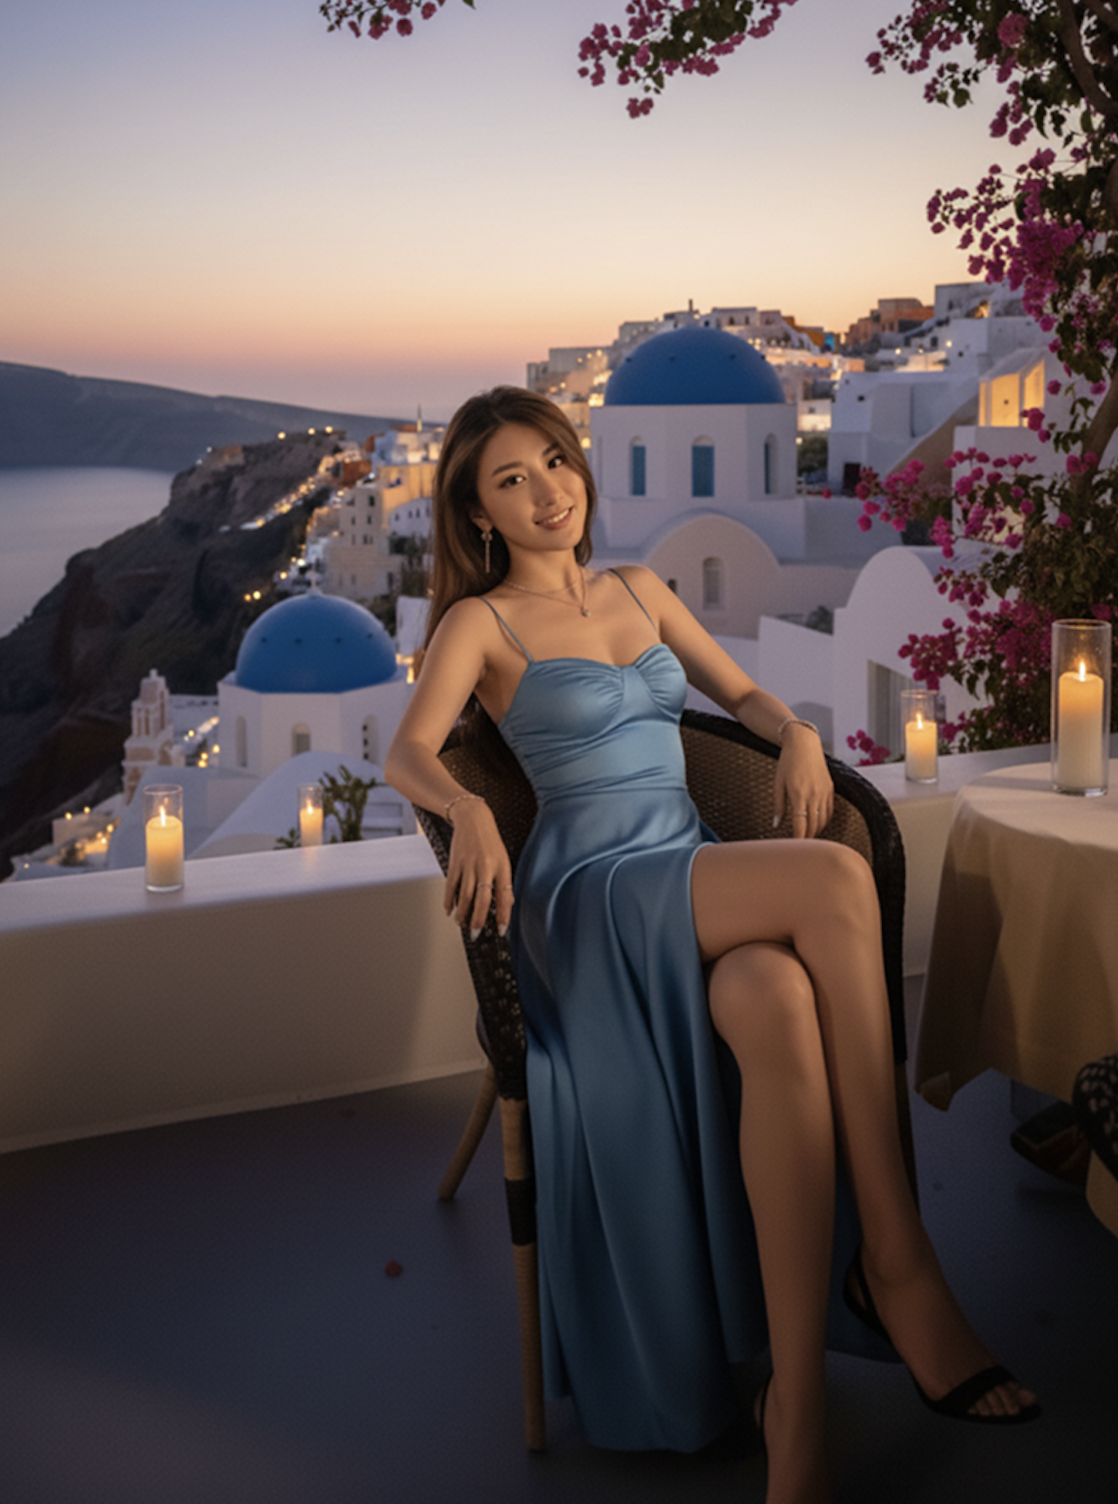
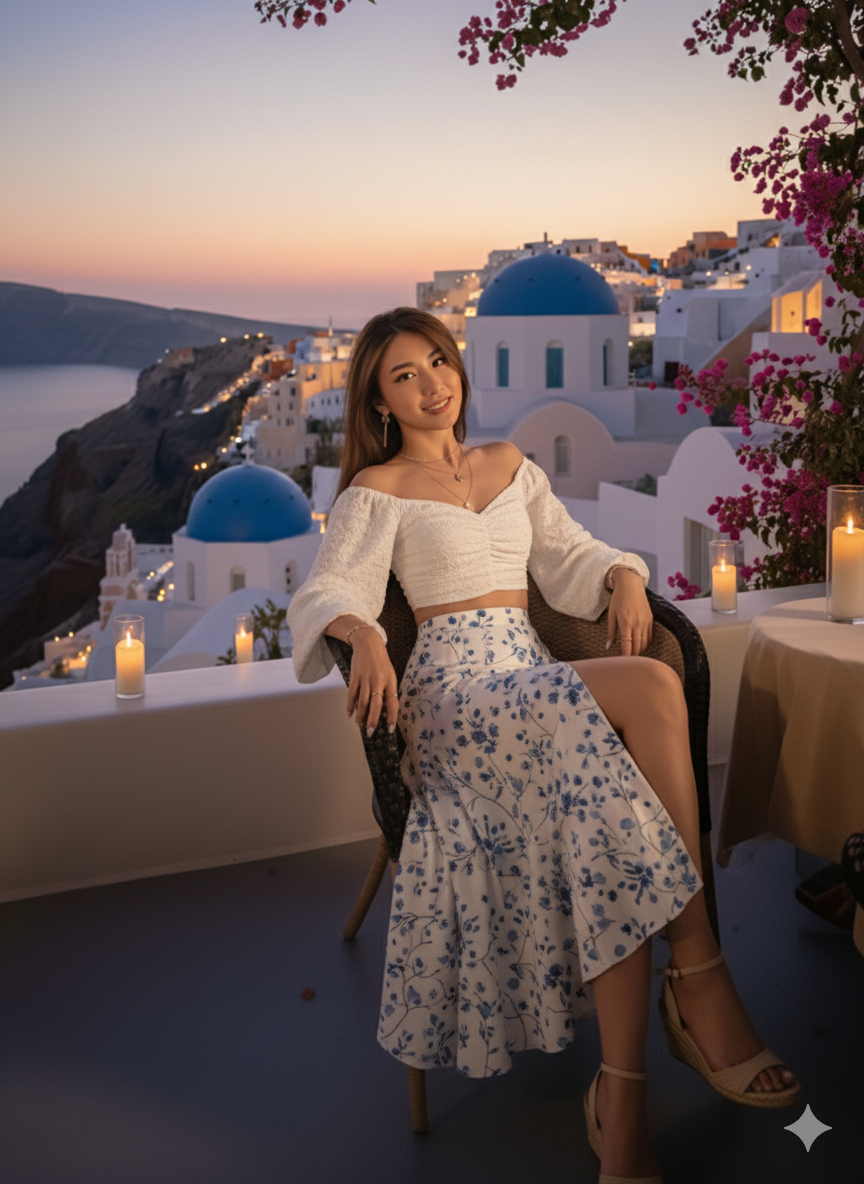
add

diff --git a/src/Instagram5.tsx b/src/Instagram5.tsx
@@ -15,25 +15,26 @@ interface InstagramInteractionDemoProps {
 const ANIMATION_TIMINGS = {
   AUTO_START_DELAY: 1000,  // Comfortable start
   INTRO_DISPLAY_DURATION: 5000,  // Extended intro for better impact
+  POST_PREVIEW_DURATION: 2500,  // Show raw post briefly before animation
   INTRO_TRANSITION_DELAY: 1500,  // Pause before demo
-  TAP_ANIMATION_DURATION: 300,  // More visible tap feedback
-  SHEET_OPEN_DELAY: 120,  // More natural sheet response
-  TYPING_START_DELAY: 500,  // Pause before typing
-  TYPING_CHAR_DELAY: 200,  // More readable typing speed
-  FADE_OUT_DELAY: 400,  // More visible fade
-  SUBMITTED_DELAY: 600,  // Pause to see submitted state
-  NOTIFICATION_DELAY: 600,  // More natural notification timing
-  NOTIFICATION_DURATION: 1000,  // Longer notification display
-  NOTIFICATION_CLICK_DELAY: 500,  // More natural click timing
+  TAP_ANIMATION_DURATION: 400,  // More visible tap feedback
+  SHEET_OPEN_DELAY: 200,  // More natural sheet response
+  TYPING_START_DELAY: 800,  // Longer pause before typing
+  TYPING_CHAR_DELAY: 300,  // Slower, more readable typing speed
+  FADE_OUT_DELAY: 600,  // More visible fade
+  SUBMITTED_DELAY: 800,  // Longer pause to see submitted state
+  NOTIFICATION_DELAY: 800,  // More natural notification timing
+  NOTIFICATION_DURATION: 1500,  // Longer notification display
+  NOTIFICATION_CLICK_DELAY: 700,  // More natural click timing
   // Notification should appear after the comment visibly renders
-  COMMENT_APPEAR_DELAY: 200,  // More visible comment appear
-  COMMENT_APPEAR_ANIM_DURATION: 400,  // Smoother animation
-  NOTIFICATION_AFTER_COMMENT_DELAY: 800,  // More natural delay
-  DM_PULSE_DELAY: 500,  // More visible DM pulse
-  DM_PULSE_DURATION: 500,  // Longer pulse duration
-  DM_CLICK_FLASH_DELAY: 600,  // More visible click flash
-  DM_CLICK_FLASH_DURATION: 300,  // Longer flash
-  WEBSITE_OPEN_DELAY: 500,  // More natural website open
+  COMMENT_APPEAR_DELAY: 300,  // More visible comment appear
+  COMMENT_APPEAR_ANIM_DURATION: 600,  // Smoother animation
+  NOTIFICATION_AFTER_COMMENT_DELAY: 1000,  // Longer delay
+  DM_PULSE_DELAY: 800,  // More visible DM pulse
+  DM_PULSE_DURATION: 800,  // Longer pulse duration
+  DM_CLICK_FLASH_DELAY: 800,  // More visible click flash
+  DM_CLICK_FLASH_DURATION: 400,  // Longer flash
+  WEBSITE_OPEN_DELAY: 800,  // More natural website open
   WEBSITE_DISPLAY_DURATION: 4000,  // Longer website display
   SCALEDM_UPSELL_DISPLAY_DURATION: 5000,  // Extended upsell for conversion
   RESTART_DELAY: 1000,  // More natural restart
@@ -104,7 +105,7 @@ const VIDEO_SCRIPT = {
     question: "Are you an IG creator or business?",
     problem: "Can't share links on your IG posts? Losing traffic to your website? 💸"
   },
-  solution: "Automatically DM your link to every commenter 🚀",
+  solution: "Auto‑DM your links to every commenter with ScaleDM 🚀",
   cta: "Sign up with ScaleDM to get started for free"
 };
 
@@ -128,7 +129,7 @@ const InstagramBookmarkIcon = () => (
   </svg>
 );
 
-type DemoPhase = "idle" | "intro" | "openSheet" | "typing" | "fadeOut" | "submitted" | "dm";
+type DemoPhase = "idle" | "intro" | "preview" | "openSheet" | "typing" | "fadeOut" | "submitted" | "dm";
 
 interface DemoState {
   typed: string;
@@ -209,17 +210,23 @@ const useDemoAnimation = () => {
     // Start with intro phase
     updateState({ phase: "intro" });
     
-    // After intro, start the demo
+    // After intro, briefly show raw post (no overlay) before starting the demo
+    addTimeout(() => {
+      updateState({ phase: "preview" });
+    }, ANIMATION_TIMINGS.INTRO_DISPLAY_DURATION);
+
+    const baseStart = ANIMATION_TIMINGS.INTRO_DISPLAY_DURATION + ANIMATION_TIMINGS.POST_PREVIEW_DURATION;
+
     addTimeout(() => {
       updateState({ typed: "", commentIconTapAnim: true });
-    }, ANIMATION_TIMINGS.INTRO_DISPLAY_DURATION);
+    }, baseStart);
     addTimeout(() => {
       updateState({ commentIconTapAnim: false });
       // Small delay before sheet opens for more natural feel
       addTimeout(() => {
         updateState({ phase: "openSheet" });
       }, 50);
-    }, ANIMATION_TIMINGS.INTRO_DISPLAY_DURATION + ANIMATION_TIMINGS.TAP_ANIMATION_DURATION);
+    }, baseStart + ANIMATION_TIMINGS.TAP_ANIMATION_DURATION);
     addTimeout(() => {
       updateState({ phase: "typing" });
       let charIndex = 0;
@@ -245,7 +252,7 @@ const useDemoAnimation = () => {
         }
       };
       typeNextChar();
-    }, ANIMATION_TIMINGS.INTRO_DISPLAY_DURATION + ANIMATION_TIMINGS.TYPING_START_DELAY);
+    }, baseStart + ANIMATION_TIMINGS.TYPING_START_DELAY);
   }, [addTimeout, clearAllAnimations, updateState, isPaused]);
 
   const handleNotification = useCallback(() => {
@@ -369,9 +376,10 @@ const IntroOverlay: React.FC<{
               sx={{ 
                 fontWeight: 800, 
                 mb: 3,
-                fontSize: { xs: "1.5rem", sm: "2rem" },
+                fontSize: { xs: "1.8rem", sm: "2.4rem" },
                 lineHeight: 1.2,
-                textShadow: "0 2px 4px rgba(0,0,0,0.3)"
+                letterSpacing: 0.2,
+                textShadow: "0 3px 10px rgba(0,0,0,0.45)"
               }}
             >
               {VIDEO_SCRIPT.intro.question}
@@ -388,10 +396,10 @@ const IntroOverlay: React.FC<{
               sx={{ 
                 fontWeight: 600, 
                 mb: 4,
-                fontSize: { xs: "1rem", sm: "1.25rem" },
+                fontSize: { xs: "1.2rem", sm: "1.4rem" },
                 lineHeight: 1.4,
-                color: "#ffeb3b",
-                textShadow: "0 1px 2px rgba(0,0,0,0.3)"
+                color: "rgba(255,255,255,0.9)",
+                textShadow: "0 3px 10px rgba(0,0,0,0.35)"
               }}
             >
               {VIDEO_SCRIPT.intro.problem}
@@ -407,19 +415,21 @@ const IntroOverlay: React.FC<{
               display: "inline-flex", 
               alignItems: "center", 
               gap: 1,
-              px: 3, 
-              py: 1.5, 
-              bgcolor: "rgba(255,255,255,0.1)",
+              px: 3.25, 
+              py: 1.6, 
+              bgcolor: "rgba(255,255,255,0.12)",
               borderRadius: 2,
-              border: "2px solid rgba(255,255,255,0.2)",
+              border: "1px solid rgba(255,255,255,0.28)",
+              boxShadow: "0 8px 20px rgba(0,0,0,0.35)",
               backdropFilter: "blur(10px)"
             }}>
               <Typography 
                 variant="h6" 
                 sx={{ 
-                  fontWeight: 700,
-                  fontSize: { xs: "1rem", sm: "1.1rem" },
-                  color: "#4caf50"
+                  fontWeight: 800,
+                  fontSize: { xs: "1.15rem", sm: "1.3rem" },
+                  color: "#ffffff",
+                  textShadow: "0 3px 10px rgba(0,0,0,0.35)"
                 }}
               >
                 {VIDEO_SCRIPT.solution}
@@ -703,14 +713,14 @@ const ScaleDMUpsellOverlay: React.FC<{
               variant="h6" 
               sx={{ 
                 fontWeight: 600, 
-                mb: 4,
-                fontSize: { xs: "1rem", sm: "1.25rem" },
+              mb: 4,
+              fontSize: { xs: "1.2rem", sm: "1.4rem" },
                 lineHeight: 1.4,
                 color: "#4caf50",
                 textShadow: "0 1px 2px rgba(0,0,0,0.3)"
               }}
             >
-              Set up your comment-to-DM automation with ScaleDM 100% free in under 30 seconds
+              Get started for free with ScaleDM
             </Typography>
           </motion.div>
 
@@ -1143,12 +1153,21 @@ const InstagramInteractionDemo: React.FC<InstagramInteractionDemoProps> = ({
                           <Typography variant="h6" sx={{ 
                             fontSize: 15, 
                             fontWeight: 700, 
-                            mb: 0.5, 
+                            mb: 0.25, 
                             lineHeight: 1.3,
                             color: "text.primary",
                             textAlign: "left"
                           }}>
-                            Sky-Blue Satin Evening Dress
+                            Autumn Ribbed Knit Two‑Piece Set
+                          </Typography>
+                          <Typography variant="caption" sx={{ 
+                            fontSize: 12,
+                            color: "text.secondary",
+                            display: "block",
+                            mb: 0.5,
+                            textAlign: "left"
+                          }}>
+                            $79 • ⭐ 4.8
                           </Typography>
                           <Typography variant="body2" sx={{ 
                             fontSize: 13, 
@@ -1158,7 +1177,7 @@ const InstagramInteractionDemo: React.FC<InstagramInteractionDemoProps> = ({
                             display: "block",
                             textAlign: "left"
                           }}>
-                            A sleek sky-blue satin dress with a timeless silhouette—effortlessly elegant for weddings, galas, and nights out.
+                            Cozy ribbed knit set with a flattering slim fit. Pair of matching top and skirt—effortless style from brunch to date night.
                           </Typography>
                         </Box>
                         <Box sx={{ position: "relative", display: "flex", justifyContent: "center", width: "100%", p: { xs: 1, sm: 1.5 } }}>
@@ -1253,7 +1272,15 @@ const InstagramInteractionDemo: React.FC<InstagramInteractionDemoProps> = ({
                         <Typography variant="caption" sx={{ color: "#666", fontSize: "0.6rem" }}>{"FASHION > "}<u>EVENING DRESSES</u></Typography>
                       </Box>
                       <Box sx={{ px: 2, py: 1.5, bgcolor: "white" }}>
-                        <Typography variant="h3" sx={{ fontWeight: 900, color: "#000", mb: 1.5, fontSize: "1.3rem" }}>Sky-Blue Satin Evening Dress</Typography>
+                        <Typography variant="h3" sx={{ fontWeight: 900, color: "#000", mb: 0.75, fontSize: "1.3rem" }}>Autumn Ribbed Knit Two‑Piece Set</Typography>
+                        <Box sx={{ display: "flex", alignItems: "center", gap: 1, mb: 1 }}>
+                          <Typography variant="h6" sx={{ fontWeight: 800, fontSize: "1rem", color: "#111" }}>$79</Typography>
+                          <Typography variant="caption" sx={{ color: "#666", fontSize: "0.7rem" }}>incl. taxes</Typography>
+                          <Box sx={{ ml: "auto", display: "flex", alignItems: "center", gap: 0.5 }}>
+                            <Typography variant="caption" sx={{ fontSize: "0.7rem" }}>⭐ 4.8</Typography>
+                            <Typography variant="caption" sx={{ fontSize: "0.7rem" }}>• 127 reviews</Typography>
+                          </Box>
+                        </Box>
                         <Box sx={{ display: "flex", alignItems: "center", gap: 1, mb: 1 }}>
                           <Avatar src="/animation_profile.png" alt="stylebysarah business profile" sx={{ width: 24, height: 24 }} />
                           <Typography variant="body2" sx={{ fontWeight: 700, fontSize: "0.8rem" }}>By <strong>STYLE BY SARAH</strong></Typography>
@@ -1263,28 +1290,32 @@ const InstagramInteractionDemo: React.FC<InstagramInteractionDemoProps> = ({
                           </Box>
                         </Box>
                         <Box sx={{ display: "flex", alignItems: "center", gap: 1, mb: 1.5 }}>
-                          <Box sx={{ px: 1.5, py: 0.75, bgcolor: "#000", color: "white", borderRadius: 1, fontWeight: 700, fontSize: "0.75rem" }}>SHOP NOW</Box>
                           <Box sx={{ display: "flex", gap: 0.5 }}>
-                            <Box sx={{ width: 20, height: 20, borderRadius: "50%", bgcolor: "#ddd", display: "flex", alignItems: "center", justifyContent: "center", fontSize: "0.6rem" }}>P</Box>
-                            <Box sx={{ width: 20, height: 20, borderRadius: "50%", bgcolor: "#ddd", display: "flex", alignItems: "center", justifyContent: "center", fontSize: "0.6rem" }}>♡</Box>
-                            <Box sx={{ width: 20, height: 20, borderRadius: "50%", bgcolor: "#ddd", display: "flex", alignItems: "center", justifyContent: "center", fontSize: "0.6rem" }}>🖨</Box>
+                            <Box sx={{ px: 1, py: 0.4, borderRadius: 1, bgcolor: "#111", color: "white", fontWeight: 800, fontSize: "0.7rem" }}>ADD TO BAG</Box>
+                            <Box sx={{ px: 1, py: 0.4, borderRadius: 1, border: "1px solid #ddd", color: "#111", fontWeight: 800, fontSize: "0.7rem" }}>WISHLIST ♡</Box>
+                          </Box>
+                          <Box sx={{ ml: "auto", display: "flex", gap: 0.5 }}>
+                            <Box sx={{ px: 0.75, py: 0.25, borderRadius: 2, bgcolor: "#f1f5f9", fontSize: "0.6rem", fontWeight: 700, color: "#0f172a" }}>XS</Box>
+                            <Box sx={{ px: 0.75, py: 0.25, borderRadius: 2, bgcolor: "#f1f5f9", fontSize: "0.6rem", fontWeight: 700, color: "#0f172a" }}>S</Box>
+                            <Box sx={{ px: 0.75, py: 0.25, borderRadius: 2, bgcolor: "#f1f5f9", fontSize: "0.6rem", fontWeight: 700, color: "#0f172a" }}>M</Box>
+                            <Box sx={{ px: 0.75, py: 0.25, borderRadius: 2, bgcolor: "#f1f5f9", fontSize: "0.6rem", fontWeight: 700, color: "#0f172a" }}>L</Box>
                           </Box>
                         </Box>
                         <Box sx={{ display: "flex", gap: 0.5, mb: 1 }}>
-                          <Box sx={{ px: 0.75, py: 0.25, bgcolor: "#1DA1F2", color: "white", borderRadius: 2, fontSize: "0.55rem", fontWeight: 700 }}>SATIN</Box>
-                          <Box sx={{ px: 0.75, py: 0.25, bgcolor: "#87CEEB", color: "#000", borderRadius: 2, fontSize: "0.55rem", fontWeight: 700 }}>SKY BLUE</Box>
-                          <Box sx={{ px: 0.75, py: 0.25, bgcolor: "#4B0082", color: "white", borderRadius: 2, fontSize: "0.55rem", fontWeight: 700 }}>EVENING</Box>
+                          <Box sx={{ px: 0.75, py: 0.25, bgcolor: "#0ea5e9", color: "white", borderRadius: 2, fontSize: "0.55rem", fontWeight: 700 }}>RIBBED</Box>
+                          <Box sx={{ px: 0.75, py: 0.25, bgcolor: "#fde68a", color: "#111", borderRadius: 2, fontSize: "0.55rem", fontWeight: 700 }}>AUTUMN</Box>
+                          <Box sx={{ px: 0.75, py: 0.25, bgcolor: "#ef4444", color: "white", borderRadius: 2, fontSize: "0.55rem", fontWeight: 700 }}>TWO‑PIECE</Box>
                         </Box>
                         <Box sx={{ mb: 1.5 }}>
-                          <Box component="img" src="/dress.png" alt="Sky-Blue Satin Evening Dress" sx={{ width: "100%", height: { xs: 160, sm: 200 }, objectFit: "cover", borderRadius: 1 }} />
+                          <Box component="img" src="/dress.png" alt="Autumn Ribbed Knit Two‑Piece Set" sx={{ width: "100%", height: { xs: 160, sm: 200 }, objectFit: "cover", borderRadius: 1 }} />
                         </Box>
                         <Typography variant="body2" sx={{ color: "#333", lineHeight: 1.4, mb: 1, fontSize: "0.85rem" }}>
-                          A sophisticated sky-blue satin dress with a soft sheen, elegant drape, and a flattering fit—made to turn heads.
+                          Cozy ribbed knit set with a flattering slim fit. Pair of matching top and skirt—effortless style from brunch to date night.
                         </Typography>
                         <Box sx={{ mt: 1.5, p: 1.5, bgcolor: "#f8f8f8", borderRadius: 1 }}>
                           <Typography variant="body2" sx={{ fontWeight: 700, fontSize: "0.8rem", mb: 0.5 }}>Highlights:</Typography>
                           <Typography variant="caption" sx={{ fontSize: "0.7rem", color: "#666", lineHeight: 1.3 }}>
-                            • Best seller • Great value • Trusted by customers • Fast delivery
+                            • New drop • Great value • Fast shipping • Easy returns
                           </Typography>
                         </Box>
                       </Box>
